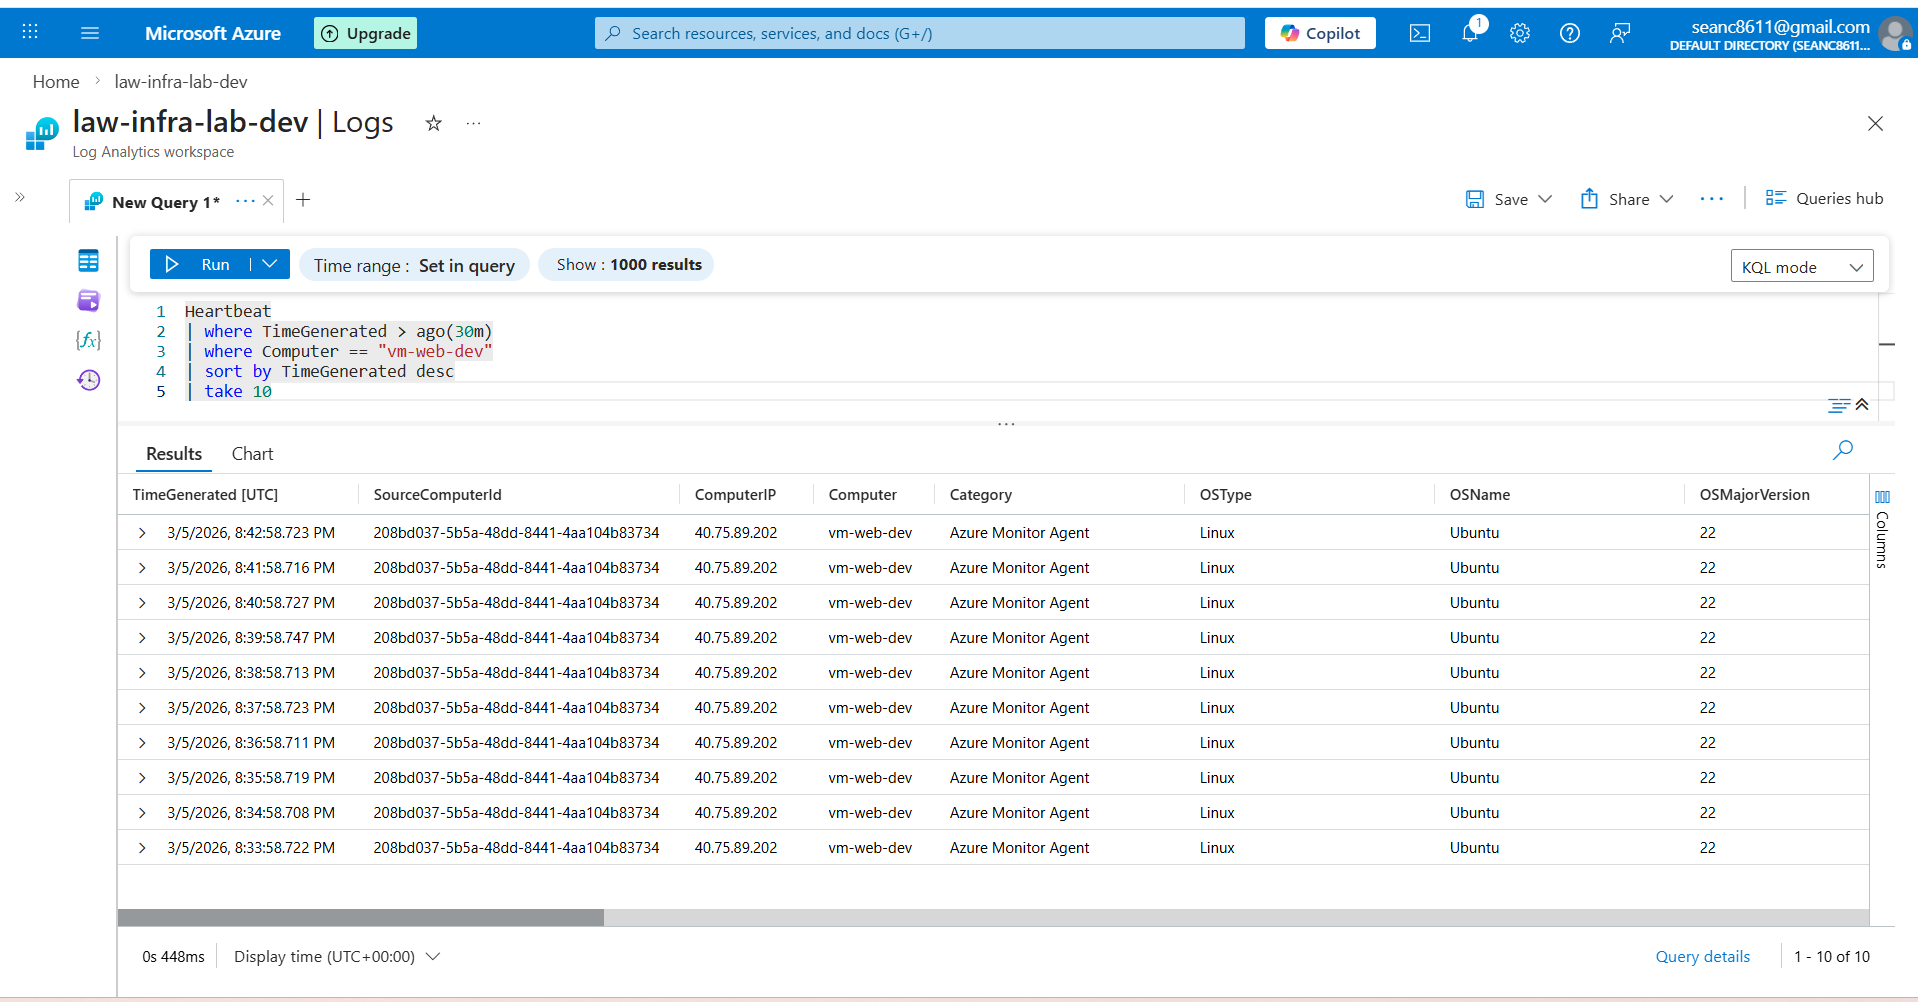
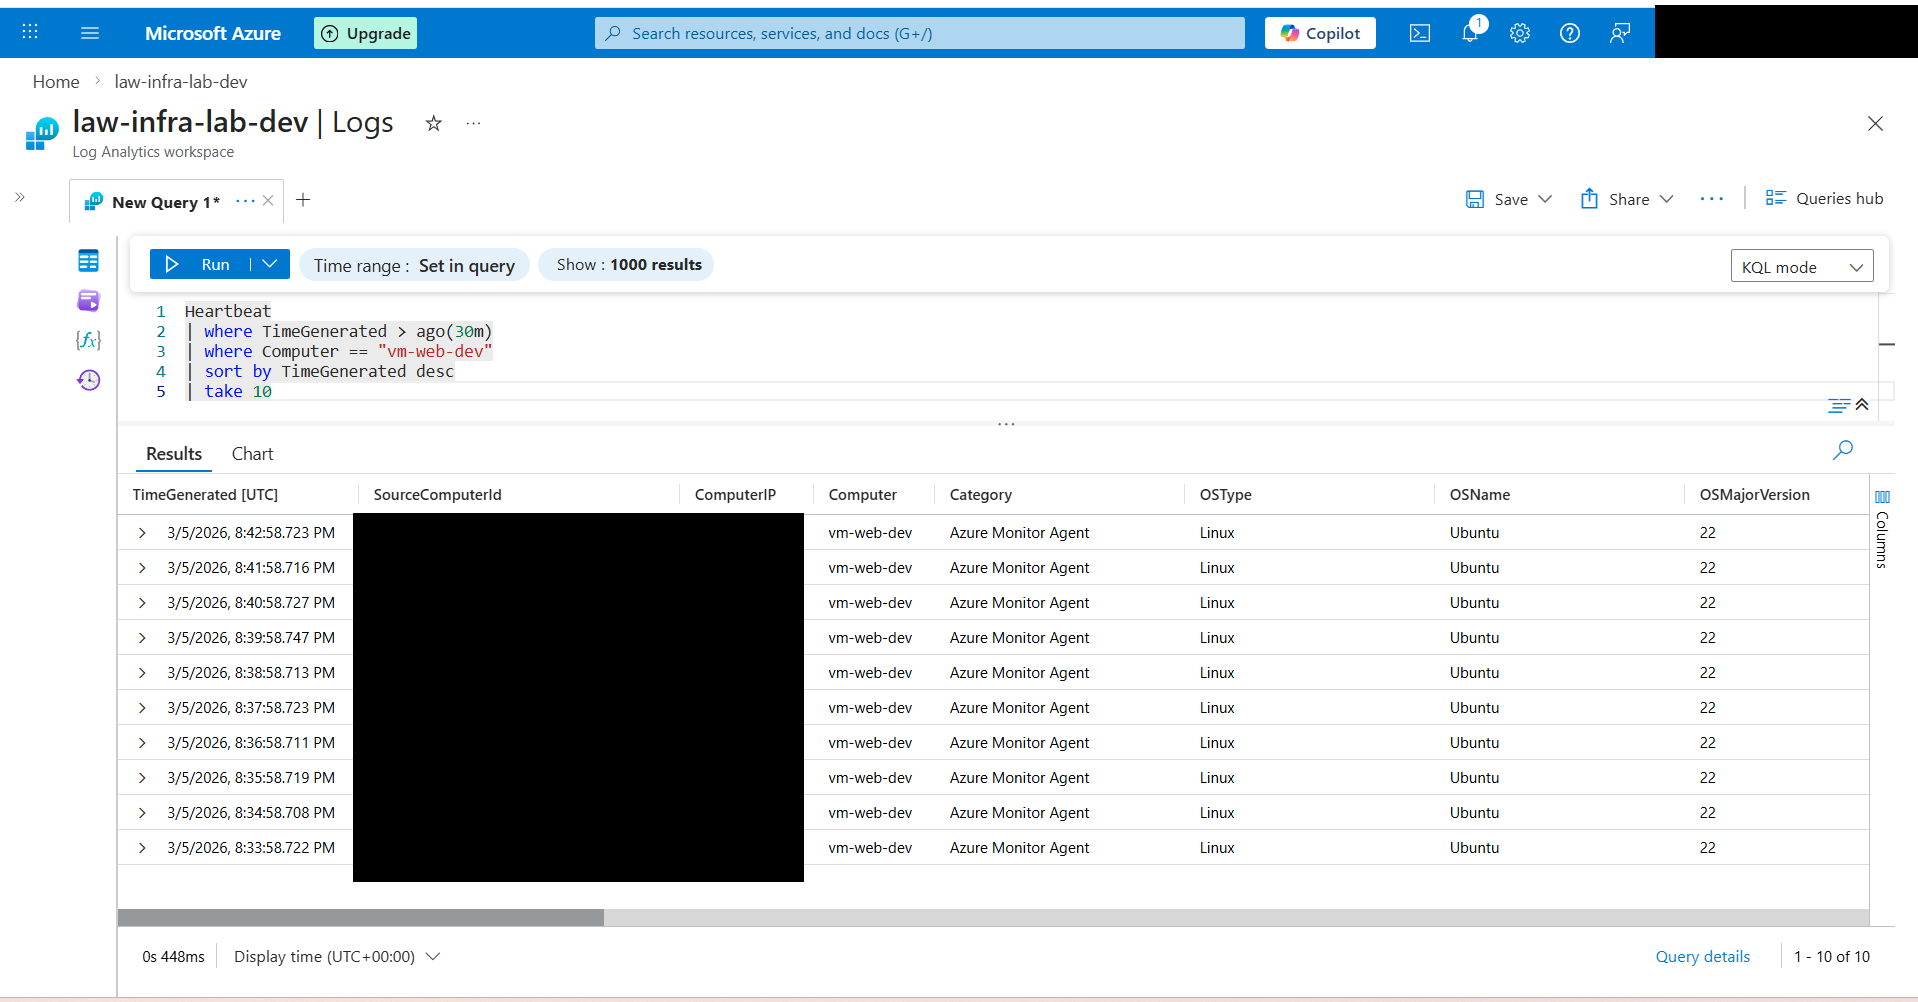
Add docs and redacted proof screenshots

Changed region(s): [[0.1846, 0.495, 0.4307, 0.8972], [0.8613, 0.0, 1.0, 0.0619]]

diff --git a/docs/runbook-cpu-alert-investigation.md b/docs/runbook-cpu-alert-investigation.md
@@ -1,0 +1,43 @@
+# Runbook — High CPU Alert Investigation (Azure Monitor)
+
+## Purpose
+This runbook describes how to investigate and respond to the **High CPU** Azure Monitor alert for the lab VM **vm-web-dev**.
+
+- **Alert name:** `alert-high-cpu-dev`
+- **Signal type:** Metric alert (Percentage CPU)
+- **Severity:** 2 (Warning)
+- **Threshold:** Average CPU > 80% over 5 minutes
+- **Target resource:** `vm-web-dev`
+
+---
+
+## Triage Checklist (1–2 minutes)
+
+1. **Confirm alert fired**
+   - Azure Portal → Monitor → Alerts → open the alert instance.
+   - Validate: VM = `vm-web-dev`, condition = Fired, CPU threshold exceeded.
+
+2. **Check if this is expected**
+   - Did you (or CI) run a stress test / heavy workload recently?
+   - If yes, document as expected and continue to verification.
+
+3. **Confirm VM is reachable**
+   - SSH to the VM (or validate service health).
+   - Confirm nginx page still loads (if web service is part of the lab proof).
+
+---
+
+## Investigation Steps
+
+### 1) Confirm CPU spike in Log Analytics (KQL)
+Azure Portal → Log Analytics workspace (`law-infra-lab-dev`) → Logs.
+
+Run this query (Perf table):
+
+```kql
+Perf
+| where TimeGenerated > ago(30m)
+| where Computer == "vm-web-dev"
+| where ObjectName == "Processor" and CounterName == "% Processor Time"
+| summarize AvgCPU = avg(CounterValue), MaxCPU = max(CounterValue) by bin(TimeGenerated, 1m)
+| order by TimeGenerated asc
